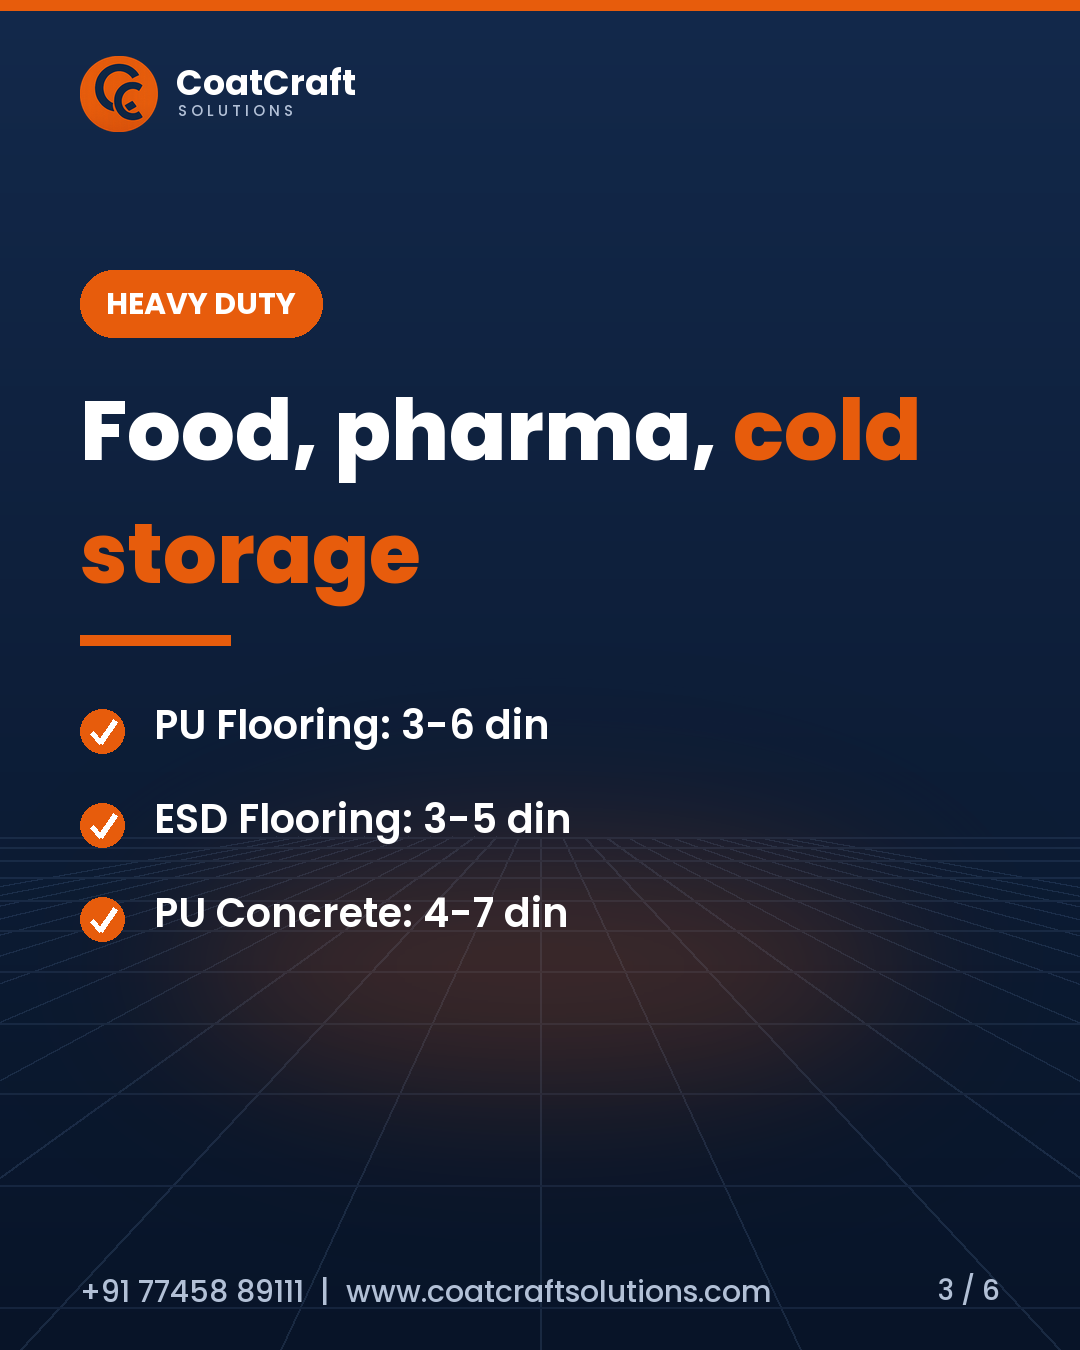
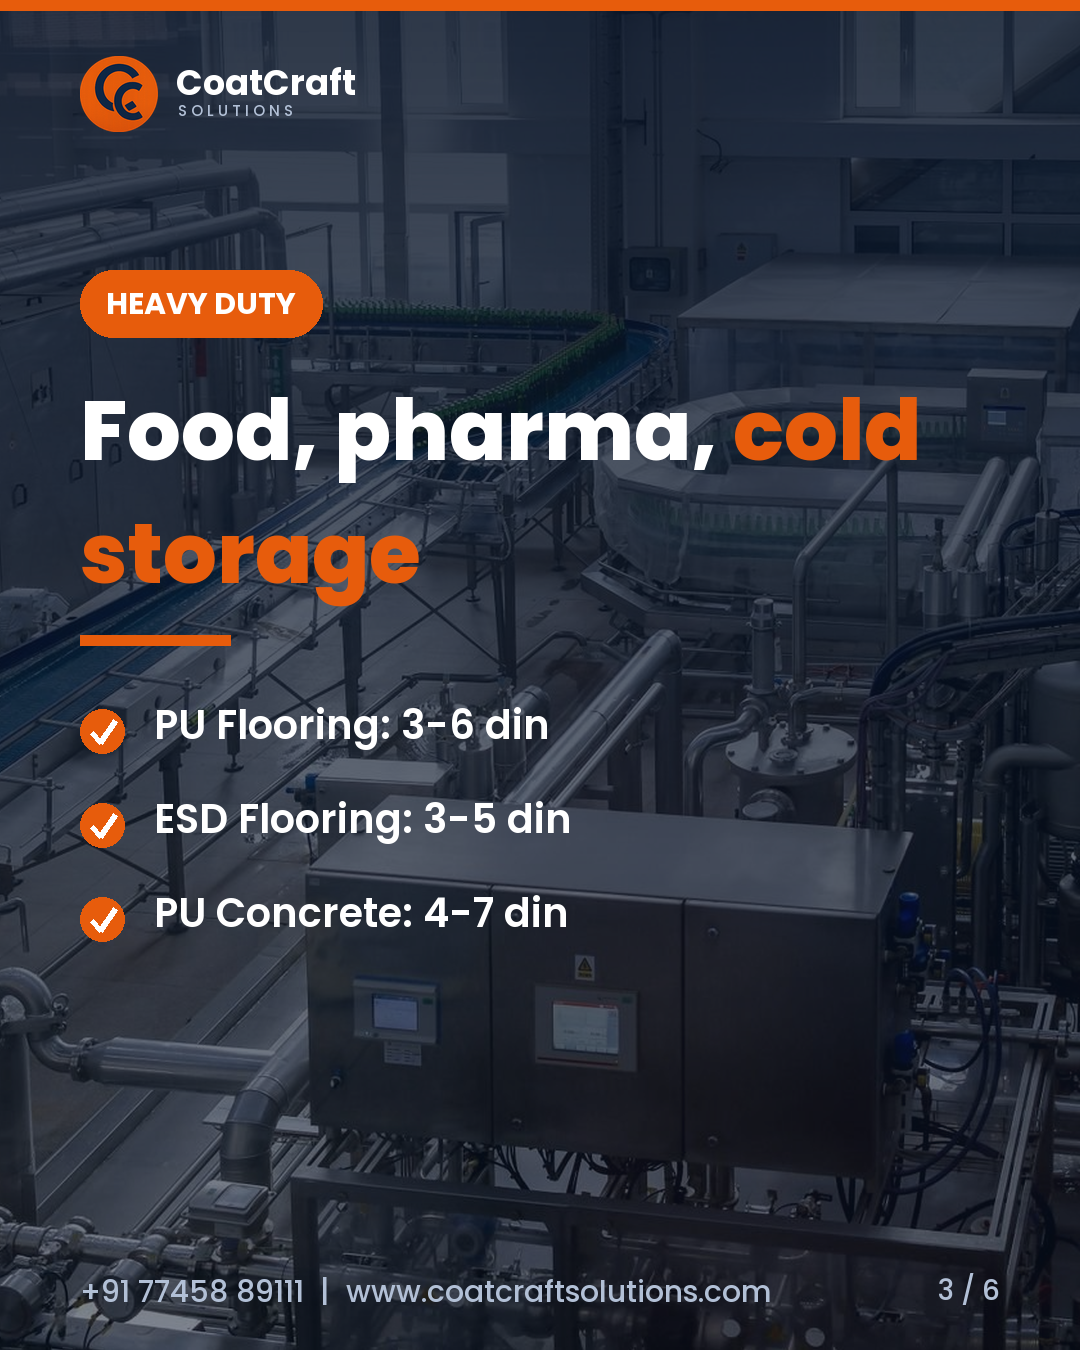
Visuals and festivals: stock photo library, photo-backed sample, festival greeting card and calendar

diff --git a/tools/make_scenes.py b/tools/make_scenes.py
@@ -8,14 +8,16 @@ Spec (e.g. ad/ad.json, daily/<date>/content.json):
     {"kind": "grid",  "tag": "SERVICES", "title": "...", "items": ["...", "..."]},
     {"kind": "list",  "tag": "...", "title": "...", "items": ["..."], "note": "*small print"},
     {"kind": "text",  "tag": "...", "title": "...", "body": "..."},
-    {"kind": "cta",   "title": "..."}
+    {"kind": "cta",   "title": "..."},
+    {"kind": "festival", "tag": "DIWALI", "title": "Shubh *Deepavali*", "body": "wish line"}
   ],
   "narration": ["one voiceover line per scene", ...]      (optional; needs ELEVENLABS_API_KEY)
 }
-Words wrapped in *stars* in a title are drawn in brand orange. "photo" (optional) puts a darkened site photo
-behind any scene. Facts and contact details come from brand/facts.json.
+Words wrapped in *stars* in a title are drawn in brand orange. "photo" (optional) puts a darkened photo
+(photos/ = our sites, stock/ = illustrative) behind any scene. Facts and contact details come from brand/facts.json.
 
     python tools/make_scenes.py SPEC.json OUT_DIR [--carousel] [--no-voice] [--secs 4.5]
+    python tools/make_scenes.py SPEC.json OUT_DIR --single NAME     one 1080x1350 image (scene 1) as NAME.png
 """
 import json
 import os
@@ -89,7 +91,8 @@ def background(w, h, photo=None):
         left, top = (img.width - w) // 2, (img.height - h) // 2
         img = img.crop((left, top, left + w, top + h))
         shade = Image.new("RGB", (w, h), NAVY_DEEP)
-        mask = Image.linear_gradient("L").resize((w, h)).point(lambda v: 110 + v * 120 // 255)
+        # dark behind the text at the top, the photo shows through more towards the bottom
+        mask = Image.linear_gradient("L").resize((w, h)).point(lambda v: 215 - v * 85 // 255)
         return Image.composite(shade, img, mask)
 
     img = Image.new("RGB", (w, h))
@@ -146,7 +149,7 @@ def render(scene, w, h, index, total):
         d.rectangle([0, 0, w, 10], fill=ORANGE)
 
     y = int(h * (0.24 if tall else 0.2))
-    if scene.get("tag"):
+    if scene.get("tag") and kind != "festival":
         _, ph = pill(d, pad, y, scene["tag"], font("Bold", 30), ORANGE, WHITE)
         y += ph + 34
 
@@ -169,6 +172,32 @@ def render(scene, w, h, index, total):
                 tw = d.textlength(line, font=f)
                 d.text(((w - tw) / 2, y + 20), line, font=f, fill=WHITE)
                 y += 54
+        return img
+
+    if kind == "festival":
+        y = int(h * 0.3)
+        if scene.get("tag"):
+            tf = font("Bold", 34)
+            tw = d.textlength(scene["tag"], font=tf) + 52
+            pill(d, (w - tw) / 2, y, scene["tag"], tf, ORANGE, WHITE)
+            y += 110
+        f, lines = fit(d, scene.get("title", ""), "ExtraBold", 120 if tall else 104, inner, 3)
+        lh = f.getmetrics()[0] + f.getmetrics()[1] + 4
+        on = False
+        for line in lines:
+            on = draw_marked(d, ((w - d.textlength(line.replace("*", ""), font=f)) / 2, y), line, f, WHITE, ORANGE, on)
+            y += lh
+        d.rectangle([w / 2 - 75, y + 18, w / 2 + 75, y + 28], fill=ORANGE)
+        y += 80
+        bf = font("Medium", 46 if tall else 40)
+        for line in wrap(d, scene.get("body", ""), bf, inner):
+            d.text(((w - d.textlength(line, font=bf)) / 2, y), line, font=bf, fill=WHITE)
+            y += 64
+        sign = "- Team CoatCraft Solutions"
+        sf = font("SemiBold", 40 if tall else 36)
+        d.text(((w - d.textlength(sign, font=sf)) / 2, y + 40), sign, font=sf, fill=ORANGE)
+        d.text((pad, h - (110 if tall else 80)), f"{FACTS['phone']}  |  {FACTS['website']}", font=font("Medium", 30),
+               fill=MUTED)
         return img
 
     title_size = 104 if tall else 84
@@ -273,6 +302,12 @@ def main():
     if narration and len(narration) != len(scenes):
         sys.exit(f"narration has {len(narration)} lines for {len(scenes)} scenes")
     os.makedirs(out, exist_ok=True)
+
+    if "--single" in sys.argv:
+        name = sys.argv[sys.argv.index("--single") + 1]
+        render(scenes[0], 1080, 1350, 0, 1).save(os.path.join(out, f"{name}.png"), optimize=True)
+        print("done image", os.path.join(out, f"{name}.png"))
+        return
 
     if carousel:
         for i, s in enumerate(scenes):

diff --git a/stock/README.md b/stock/README.md
@@ -1,0 +1,43 @@
+# Stock photos (illustrative only)
+
+Free photos from Pexels (https://www.pexels.com/license/: free for commercial use, no attribution needed).
+They are **not CoatCraft projects**: use them as scene backgrounds to show the kind of floor or work, and never
+caption them as our site, our client or our result. Real CoatCraft photos go in `photos/` (see photos/notes.md).
+
+| File | Shows | Tags | Pexels ID |
+|---|---|---|---|
+| stock/apply-selfleveling-workers.jpg | Workers spreading a white self-levelling floor coating in a large hall | application,epoxy,pu,industrial,process,hook | 36217330 |
+| stock/power-trowel-worker.jpg | Worker running a power trowel on a fresh concrete floor | process,concrete,densi,industrial,repair | 31672890 |
+| stock/roller-floor-bw.jpg | Roller in a tray on a concrete floor, black and white | roller,process,application | 6474452 |
+| stock/roller-floor-worker.jpg | Person rolling coating over a grey concrete floor | roller,application,process,residential | 6474491 |
+| stock/roller-tray-grey.jpg | Grey coating roller in a tray | roller,process | 6474456 |
+| stock/roller-tray-closeup.jpg | Close-up of a coating roller in a yellow tray | roller,process | 6474465 |
+| stock/floor-prep-worker.jpg | Worker kneeling on a floor doing surface preparation | process,repair,prep | 6474126 |
+| stock/spray-worker.jpg | Worker in protective suit spraying inside a room | process,wall,application | 6474301 |
+| stock/floor-mortar-worker.jpg | Worker in a hard hat laying mortar on a floor | repair,process,concrete | 29181494 |
+| stock/glossy-warehouse-1.jpg | Empty warehouse with a glossy white floor | warehouse,industrial,epoxy,result,hook | 36230779 |
+| stock/glossy-warehouse-2.jpg | Large hall with a glossy reflective floor | warehouse,industrial,epoxy,result | 36230768 |
+| stock/factory-aisle-lines.jpg | Factory aisle with yellow safety line marking | manufacturing,industrial,automobile,line-marking | 34718930 |
+| stock/factory-marked-floor.jpg | Plant floor with marked walkways and machinery | manufacturing,industrial,automobile | 36423820 |
+| stock/warehouse-aisle-people.jpg | Warehouse aisle with racks and two people walking | warehouse,logistics | 4487383 |
+| stock/forklift-yard.jpg | Forklift parked outdoors | warehouse,pu-concrete,heavy-duty | 29491402 |
+| stock/forklift-indoor.jpg | Forklift inside a warehouse | warehouse,pu-concrete,heavy-duty | 14688876 |
+| stock/food-plant.jpg | Stainless steel food processing line | food,pu,hygiene | 38336747 |
+| stock/food-factory.jpg | Food factory interior with machinery | food,pu,hygiene | 36823725 |
+| stock/parking-glossy-red.jpg | Multi-level car park with a glossy coated floor | parking,car-parking | 15216662 |
+| stock/parking-ramp.jpg | Car park ramp with floor markings | parking,car-parking | 20616865 |
+| stock/parking-shiny.jpg | Indoor car park with a shiny floor and bays | parking,car-parking,hook | 18344080 |
+| stock/showroom-car-reflection.jpg | Car on a glossy showroom floor with reflection | commercial,showroom,metallic,decorative | 37475969 |
+| stock/showroom-white.jpg | Car showroom with a bright white floor | commercial,showroom | 18108314 |
+| stock/garage-dark-glossy.jpg | Garage with a dark glossy floor and sports cars | parking,garage,decorative,metallic | 10198873 |
+| stock/garage-glossy.jpg | Garage with a glossy floor and a yellow car | garage,parking,decorative | 32725734 |
+| stock/yellow-glossy-floor.jpg | Empty room with a glossy yellow floor | epoxy,result,decorative,hook | 16411817 |
+| stock/polished-concrete-room.jpg | Open room with a polished concrete floor | densi,polished-concrete,commercial | 7031622 |
+| stock/glossy-corridor.jpg | Corridor with a glossy white floor | hospital,commercial,pu,result | 38942672 |
+| stock/cleanroom-corridor.jpg | Clean white corridor with a person in protective wear | pharma,hospital,esd,cleanroom | 9574339 |
+| stock/cleanroom.jpg | Cleanroom with a person in a protective suit | pharma,esd,electronics,cleanroom | 10514768 |
+| stock/marble-white.jpg | White marble texture | italian-marble,decorative,residential | 3847492 |
+| stock/marble-grey.jpg | Grey veined marble texture | italian-marble,decorative | 12956025 |
+| stock/marbled-swirl.jpg | Swirling multicolour marbled pattern | metallic,3d,decorative | 15260320 |
+| stock/flakes-texture.jpg | Speckled multicolour chip texture | flakes,granule,decorative | 36346027 |
+| stock/granite-speckle.jpg | Black and white speckled texture | flakes,granule | 33962544 |

diff --git a/AGENT.md b/AGENT.md
@@ -17,6 +17,12 @@ plus a Google Business Profile update once that network is connected.
    - Carousel: exactly 6 scenes. 1 `hook` (question or problem, 2 `chips`, short `body` ending in a swipe cue),
      2-5 one idea each (`list` with 3 items, `grid` with 4-8 items, or `text`), 6 `cta` with a short title.
    - Reel: exactly 5 scenes (`hook`, three content scenes, `cta`) and `"narration"` with exactly 5 lines.
+   - Visuals: give every scene a `photo` that shows the business: people applying coating, rollers, glossy
+     industrial floors, car parks, showrooms, cleanrooms, marble/metallic textures, matching that scene's topic.
+     Prefer real photos from `photos/` (see `photos/notes.md`) whenever one fits; otherwise pick from
+     `stock/README.md` by tags. Don't reuse the same photo twice in one post, and avoid the photos used in the
+     last 3 days of `daily/` when others fit. Stock photos are illustrative only: never describe them as our
+     site, client or result.
    - Titles under ~40 characters; mark 1-3 key words with `*stars*` (orange). List items under ~35 characters.
      Slide text: plain ASCII only, no emoji and no arrows (Poppins has no glyphs for them).
    - Narration: Devanagari, conversational, 1-2 short sentences per scene (~15-30 words), English trade words
@@ -43,6 +49,9 @@ plus a Google Business Profile update once that network is connected.
    running into the footer, orange words correct. Fix the JSON and re-render until clean.
    Commit (`Daily $D: <topic>`), `git pull --rebase origin main`, push to `main` (on a rejected push, pull --rebase
    and retry up to 3 times).
+   **Festival day:** if `$D` is in `festivals.md`, also write `daily/$D/festival.json` (one `festival` scene, as
+   festivals.md describes) and a `## Festival` section in captions.md (Instagram/Facebook caption + GBP text), and
+   render it with `python3 tools/make_scenes.py daily/$D/festival.json daily/$D --single festival` before the commit.
 6. Confirm `https://raw.githubusercontent.com/pravingadekar/coatcraft-posts/main/daily/$D/slide1.png` and
    `.../reel.mp4` return HTTP 200 (retry for up to 2 minutes after the push).
 7. Metricool: use ONLY the "Metricool CoatCraft" connector, brand/blogId `7752681` (label "coatcraftsolutions",
@@ -51,6 +60,7 @@ plus a Google Business Profile update once that network is connected.
    autoPublish true, at these times on `$D` (Metricool best-time data for this brand, Oct 2026):
    | Time  | Post |
    |-------|------|
+   | 09:00 | Festival days only: Instagram `POST` + Facebook `POST` with festival.png and the festival caption, and GBP `publication` with the festival GBP text |
    | 10:00 | Instagram `REEL` with reel.mp4, `showReelOnFeed: true`, Instagram Reel caption |
    | 10:00 | Facebook `REEL` with reel.mp4, Facebook caption |
    | 11:00 | Google Business Profile (`gmb`, `gmbData.type: "publication"`), GBP text. Only if getBrandSettings shows `gbpData` in the brand's `networksData` (connected 2026-10-30); otherwise skip it |

diff --git a/festivals.md b/festivals.md
@@ -1,0 +1,42 @@
+# Festival greetings
+
+On a date listed below, the routine makes one extra greeting image (`daily/$D/festival.png`, scene kind
+`festival`) on top of the normal posts, and schedules it at 09:00 to Instagram (POST), Facebook (POST) and
+Google Business Profile (`publication` with the wish text). Lunar dates are from Drik Panchang (Pune), checked 2026-10-30.
+
+Card: `tag` = festival name in caps (+ year), `title` = the greeting with 1-2 words in `*stars*`,
+`body` = a one-line Hinglish wish that ties in strength / new beginnings / a strong foundation (floors), never
+a sales pitch, discount or offer. `photo`: a bright, clean `stock/` or `photos/` image (glossy floor, showroom).
+Caption: the wish, one soft line about CoatCraft, the contact block, festival + brand hashtags. No service-area line.
+
+| Date | Festival | Greeting idea |
+|---|---|---|
+| 2026-11-06 | Dhanteras | Shubh Dhanteras |
+| 2026-11-08 | Diwali (Lakshmi Puja) | Shubh Deepavali |
+| 2026-11-10 | Diwali Padwa / Balipratipada | Diwali Padwa chya hardik shubhechha |
+| 2026-11-11 | Bhaubeej | Happy Bhaubeej |
+| 2026-12-25 | Christmas | Merry Christmas |
+| 2027-01-01 | New Year | Happy New Year 2027 |
+| 2027-01-15 | Makar Sankranti | Tilgul ghya, god god bola |
+| 2027-01-26 | Republic Day | Happy Republic Day |
+| 2027-02-19 | Chhatrapati Shivaji Maharaj Jayanti | Shivjayantichya hardik shubhechha |
+| 2027-03-06 | Maha Shivaratri | Har Har Mahadev |
+| 2027-03-22 | Holi / Dhulivandan | Happy Holi |
+| 2027-04-07 | Gudi Padwa (Marathi New Year) | Gudi Padwa chya hardik shubhechha |
+| 2027-04-14 | Dr. Babasaheb Ambedkar Jayanti | Bhim Jayantichya shubhechha |
+| 2027-04-15 | Ram Navami | Shubh Ram Navami |
+| 2027-05-01 | Maharashtra Din / Labour Day | Maharashtra Dinachya shubhechha, salute to every worker |
+| 2027-08-15 | Independence Day | Happy Independence Day |
+| 2027-08-17 | Raksha Bandhan | Happy Raksha Bandhan |
+| 2027-08-25 | Janmashtami | Shubh Janmashtami |
+| 2027-09-04 | Ganesh Chaturthi | Ganpati Bappa Morya |
+| 2027-09-30 | Navratri begins | Shubh Navratri |
+| 2027-10-09 | Dussehra | Shubh Dussehra / Vijayadashami |
+| 2027-10-27 | Dhanteras | Shubh Dhanteras |
+| 2027-10-29 | Diwali (Lakshmi Puja) | Shubh Deepavali |
+| 2027-10-30 | Diwali Padwa | Diwali Padwa chya hardik shubhechha |
+| 2027-10-31 | Bhaubeej | Happy Bhaubeej |
+| 2027-12-25 | Christmas | Merry Christmas |
+
+The list ends on 2027-12-25: from 2027-11-01, say in every final report that festivals.md needs 2028 dates.
+Eid dates depend on the moon sighting and are not listed; add them only when Pravin confirms a date.

diff --git a/README.md b/README.md
@@ -5,6 +5,8 @@ Instagram, Facebook, YouTube Shorts and Google Business Profile, scheduled via M
 
 - `brand/` logo, icon, fonts, `facts.json` (the only claims posts may make; refresh with `tools/sync_facts.py`)
 - `ad/ad.json` the brand ad reel spec; `ad/v1/`, `ad/v2/` rendered scenes + reel
+- `stock/` illustrative Pexels photos (index in stock/README.md), `photos/` real site photos (photos/notes.md),
+  `festivals.md` greeting dates
 - `AGENT.md` the daily routine, `pillars.md` topics per weekday, `seo.md` keywords, MIDC rotation and GBP setup, `history.md` topics used, `daily/<date>/` posts
 - `tools/make_scenes.py` scenes/carousel renderer, `make_reel.py` reel builder (zoom, crossfades, voice + music),
   `make_music.py` original background track, `tts.py` ElevenLabs voice (`ELEVENLABS_API_KEY`; optional `COATCRAFT_VOICE_ID`, default Rudra)

diff --git a/pillars.md b/pillars.md
@@ -5,6 +5,7 @@ the first item in its queue that is not yet in `history.md`. When a queue is use
 with a fresh angle (different hook and examples).
 
 Keys refer to `brand/facts.json` (`services.<key>` / `industries.<key>`).
+Festival greetings come on top of these on the dates in `festivals.md`.
 
 ## Mon: Service spotlight
 One service: what it is, benefits, where it is used, thickness, expected life, install time, warranty.

diff --git a/photos/notes.md b/photos/notes.md
@@ -1,0 +1,7 @@
+# Real CoatCraft photos
+
+Raw uploads go in `photos/new/` (ignored by git). Each one is resized, stripped of GPS/camera metadata, checked for
+client names, boards and faces, then saved here and described below. Posts may say only what this table says.
+
+| File | Site / area | System | Stage | Notes |
+|---|---|---|---|---|
